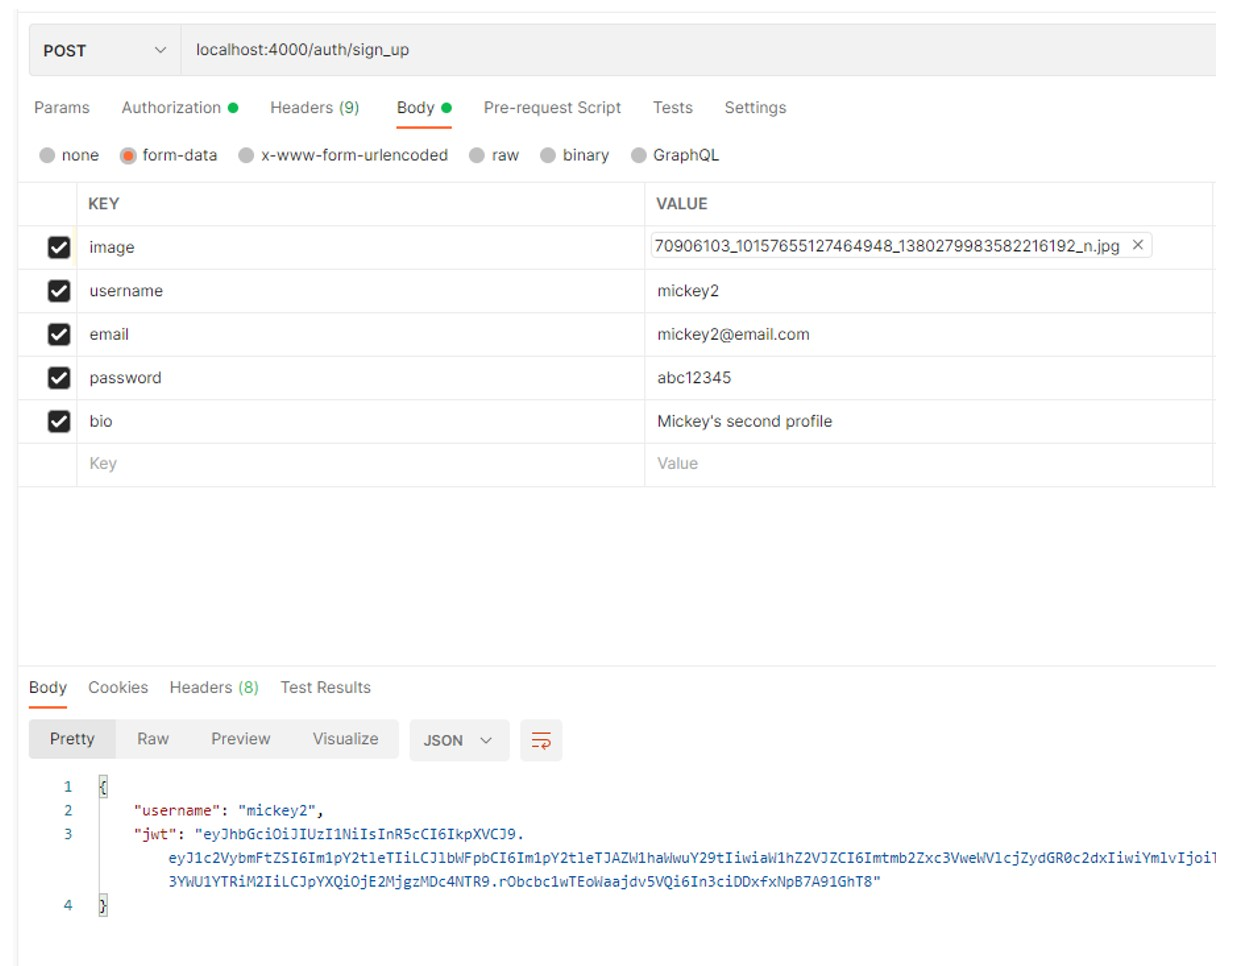
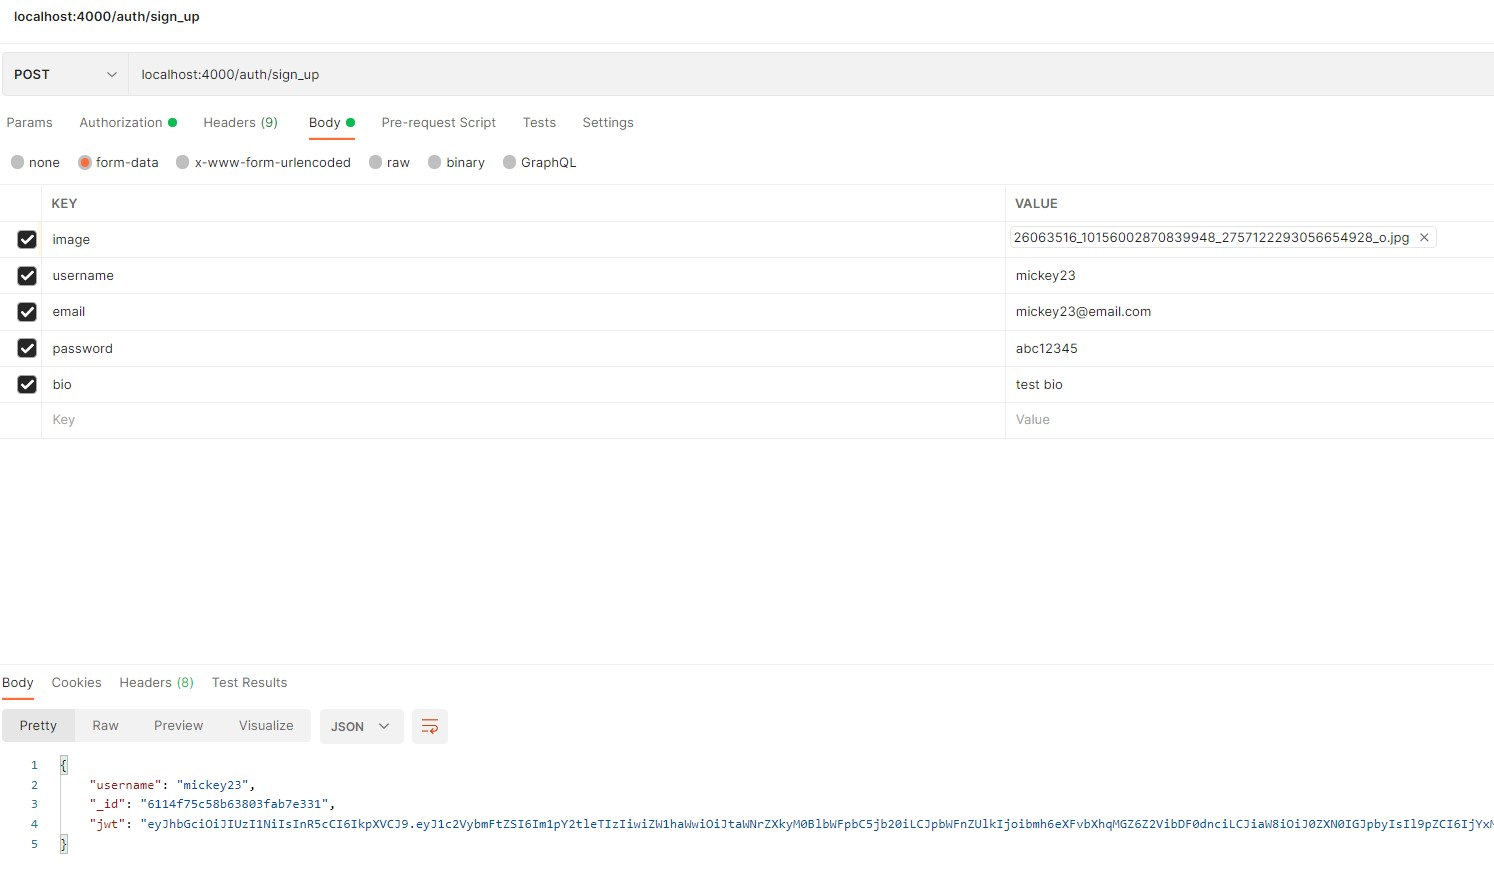
updates to create post function - WORKING AS PER CHAT WITH EM - BELIEVE IT DOES EVEN IF IT CLUNKS OUT

diff --git a/README.md b/README.md
@@ -123,7 +123,7 @@ HTTP Request: **POST**
 
 URL: localhost:4000/auth/sign_up
 
-Notes: With a Json Web Token (JWT) as authentication, a profile is created in the database and the image is stored in Cloudinary, the cloud storage solution. 
+Notes: With a Json Web Token (JWT) as authentication, a profile is created in the database and the image is stored in Cloudinary, the cloud storage solution. As confirmation for a successful sign-up, a JWT is returned along with the Username and User ID.
 
 ![Auth - Sign Up](/docs/images/auth_sign_up.jpg)
 
@@ -136,13 +136,13 @@ HTTP Request: **POST**
 
 URL: localhost:4000/auth/sign_up
 
-Notes: Upon signing in a Json Web Token (JWT) is returned
+Notes: Upon signing in a Json Web Token (JWT) is returned along with the Username and User ID.
 
 JSON Format:
 
 ```json
 {
-    "username": "mickey1",
+    "username": "mickey0",
     "password": "abc12345"
 }
 ```
@@ -154,11 +154,13 @@ JSON Format:
 
 #### **Sign Out**
 
-HTTP Request: **POST**
+HTTP Request: **GET**
 
 URL: localhost:4000/auth/sign_out
 
-Notes: Upon signing out an empty array is returned to reflect the succesful sign out.
+Notes: Upon signing out an empty array is returned to reflect a destroyed user session for the succesful sign out.
+
+![Auth - Sign Out](/docs/images/auth_sign_out.jpg)
 
 <br>
 <br>
@@ -170,7 +172,7 @@ Notes: Upon signing out an empty array is returned to reflect the succesful sign
 
 HTTP Request: **GET**
 
-URL: localhost:4000/users/610deeb7af330020b19d6219
+URL: localhost:4000/users/610e07f14cd8c527ae5a4b50
 
 *the ID used in the URL is the ID of the document within the database*
 
@@ -189,7 +191,7 @@ URL: localhost:4000/users/user_label/610e018e4cd8c527ae5a4b3b
 
 *the ID used in the URL is the ID of the document within the database*
 
-Notes: With a Json Web Token (JWT) as authentication, a profile is retrieved (based on certain criteria) from the database and the image is retrieved from Cloudinary, the cloud storage solution. 
+Notes: With a Json Web Token (JWT) as authentication, a profile is retrieved (based on certain criteria) from the database and the image is retrieved from Cloudinary, the cloud storage solution. This route was create as a way to show the username and their avatar image in select areas of the application. 
 
 ![Users - Get Profile](/docs/images/users_getprofile_sendcertainitems.jpg)
 
@@ -215,11 +217,11 @@ Notes: With a Json Web Token (JWT) as authentication, a profile is update from t
 
 HTTP Request: **DELETE**
 
-URL: localhost:4000/users/ 610e04e54cd8c527ae5a4b46
+URL: localhost:4000/users/6114eb20d888927974a444f4
 
 *the ID used in the URL is the ID of the document within the database*
 
-Notes: With a Json Web Token (JWT) as authentication, a profile is deleted from the database and the image is deleted from Cloudinary, the cloud storage solution. 
+Notes: With a Json Web Token (JWT) as authentication, a profile is deleted from the database and the image is deleted from Cloudinary, the cloud storage solution. The empty response in Postman reflects the successful deletion.
 
 ![Users - Delete Profile](/docs/images/users_delete_profile.jpg)
 
